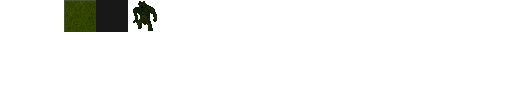
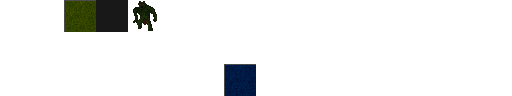
Continent generation, water

Changed region(s): [[0.4375, 0.6562, 0.5, 1.0]]

diff --git a/Maps/Generation/Steps/ContinentsGenerationStep.cs b/Maps/Generation/Steps/ContinentsGenerationStep.cs
@@ -1,0 +1,72 @@
+using GoRogue.MapGeneration;
+using GoRogue;
+using SadRogue.Primitives;
+using SadRogue.Primitives.GridViews;
+using System.Collections.Generic;
+using System.Linq;
+using Troschuetz.Random;
+
+namespace Novalia.Maps.Generation.Steps
+{
+    public class ContinentsGenerationStep : GenerationStep
+    {
+        private readonly IGenerator _rng;
+        private readonly int _maxIterations;
+        private readonly float _landThreshold;
+
+        public ContinentsGenerationStep(IGenerator rng, int maxIterations, float landThreshold)
+            : this("Continents", rng, maxIterations, landThreshold)
+        {
+        }
+        public ContinentsGenerationStep(string componentTag, IGenerator rng, int maxIterations, float landThreshold)
+        {
+            ComponentTag = componentTag;
+            _rng = rng;
+            _maxIterations = maxIterations;
+            _landThreshold = landThreshold;
+        }
+
+        public string ComponentTag { get; }
+        protected override IEnumerator<object> OnPerform(GenerationContext context)
+        {
+            var continentsComponent = context.GetFirstOrNew<ISettableGridView<bool>>(
+                () => new ArrayView<bool>(context.Width, context.Height),
+                ComponentTag);
+
+            while (!LandThresholdReached(continentsComponent))
+            {
+                var focusPoint = new Point(
+                    _rng.Next(10, context.Width - 10),
+                    _rng.Next(10, context.Height - 10));
+
+                int iterations = _rng.Next(20, _maxIterations);
+                for (int i = 0; i < iterations; i++)
+                {
+                    continentsComponent[focusPoint] = true;
+                    if (continentsComponent.Contains(focusPoint.Translate(1, 0)))
+                    {
+                        continentsComponent[focusPoint.Translate(1, 0)] = true;
+                    }
+
+                    if (continentsComponent.Contains(focusPoint.Translate(0, 1)))
+                    {
+                        continentsComponent[focusPoint.Translate(0, 1)] = true;
+                    }
+
+                    focusPoint = AdjacencyRule.Cardinals
+                        .Neighbors(focusPoint)
+                        .Where(p => continentsComponent.Contains(p))
+                        .ToList()
+                        .RandomItem(_rng);
+                }
+            }
+
+            yield break;
+        }
+
+        private bool LandThresholdReached(ISettableGridView<bool> map)
+        {
+            return (double)map.Positions().Where(t => map[t]).Count() / (double)map.Count > _landThreshold;
+        }
+    }
+}

diff --git a/GameManager.cs b/GameManager.cs
@@ -3,6 +3,7 @@ using Novalia.Entities;
 using Novalia.GameMechanics;
 using Novalia.Logging;
 using Novalia.Maps;
+using Novalia.Maps.Generation.Steps;
 using Novalia.Serialization;
 using Novalia.Ui;
 using Novalia.Ui.Consoles;
@@ -89,13 +90,15 @@ namespace Novalia
 
             var tileWidth = 80;
             var tileHeight = 80;
-            var generator = new Generator(tileWidth, tileHeight)
+            var rng = new StandardGenerator();
+            var continentsStep = new ContinentsGenerationStep(rng, 200, 0.3F);
+            var mapGenerator = new Generator(tileWidth, tileHeight)
                 .ConfigAndGenerateSafe(gen =>
                 {
-                    gen.AddSteps(DefaultAlgorithms.RectangleMapSteps());
+                    gen.AddSteps(continentsStep);
                 });
 
-            var generatedMap = generator.Context.GetFirst<ISettableGridView<bool>>("WallFloor");
+            var generatedMap = mapGenerator.Context.GetFirst<ISettableGridView<bool>>(continentsStep.ComponentTag);
 
             var sudet = new Empire(EmpireAtlas.Sudet);
             var blackhand = new Empire(EmpireAtlas.BlackhandDominion);
@@ -107,11 +110,10 @@ namespace Novalia
 
             foreach (var position in map.Positions())
             {
-                var template = generatedMap[position] ? TerrainAtlas.Grassland : TerrainAtlas.MapEdge;
+                var template = generatedMap[position] ? TerrainAtlas.Grassland : TerrainAtlas.Ocean;
                 map.SetTerrain(new Terrain(position, template.Glyph, template.Name, template.Walkable, template.Transparent));
             }
 
-            var rng = new StandardGenerator();
             for (int i = 0; i < 10; i++)
             {
                 var position = map.WalkabilityView.RandomPosition(true, rng);

diff --git a/Maps/TerrainAtlas.cs b/Maps/TerrainAtlas.cs
@@ -37,5 +37,12 @@ namespace Novalia.Maps
             WorldGlyphAtlas.Terrain_Grassland,
             true,
             true);
+
+        public static TerrainTemplate Ocean => new TerrainTemplate(
+            "TERRAIN_OCEAN",
+            "Ocean",
+            WorldGlyphAtlas.Terrain_Ocean,
+            false,
+            false);
     }
 }

diff --git a/Fonts/WorldGlyphAtlas.cs b/Fonts/WorldGlyphAtlas.cs
@@ -8,6 +8,7 @@
         // Terrain
         public const int Terrain_Grassland = 2;
         public const int Terrain_MapEdge = 3;
+        public const int Terrain_Ocean = 39;
 
         // Units
         public const int Unit_CaveTroll = 4;

diff --git a/Fonts/MinimapGlyphAtlas.cs b/Fonts/MinimapGlyphAtlas.cs
@@ -8,5 +8,6 @@
         // Terrain
         public const int Terrain_Grassland = 2;
         public const int Terrain_MapEdge = 3;
+        public const int Terrain_Ocean = 39;
     }
 }
